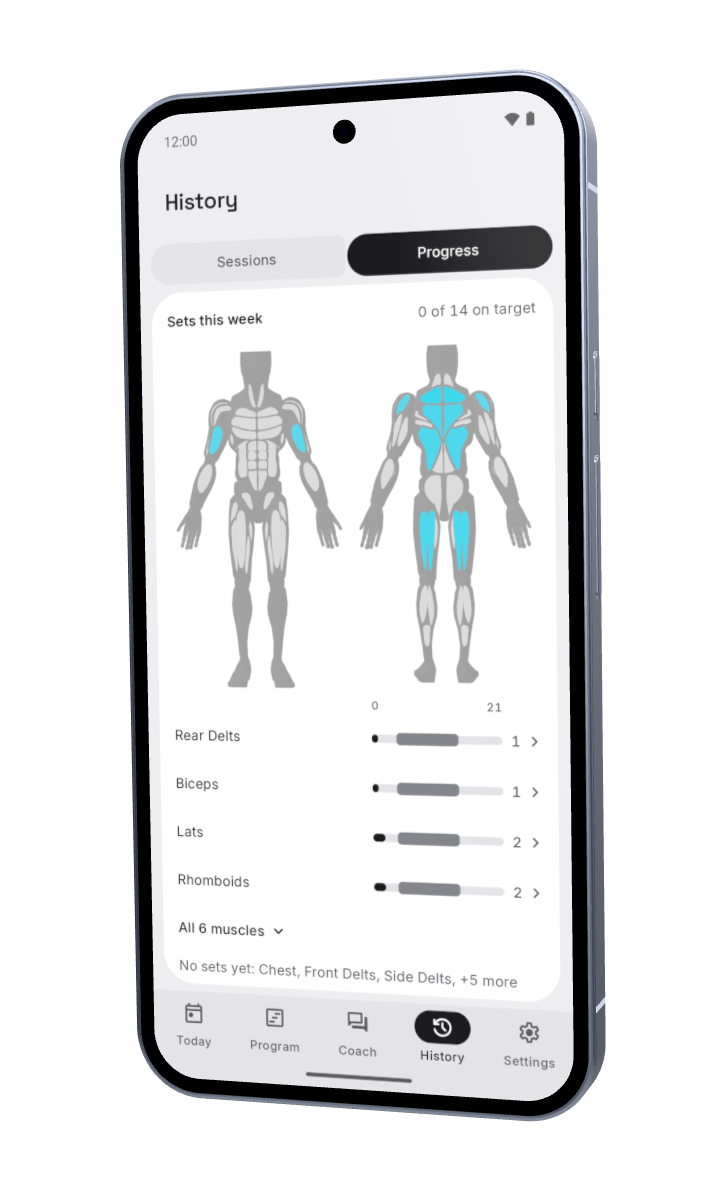
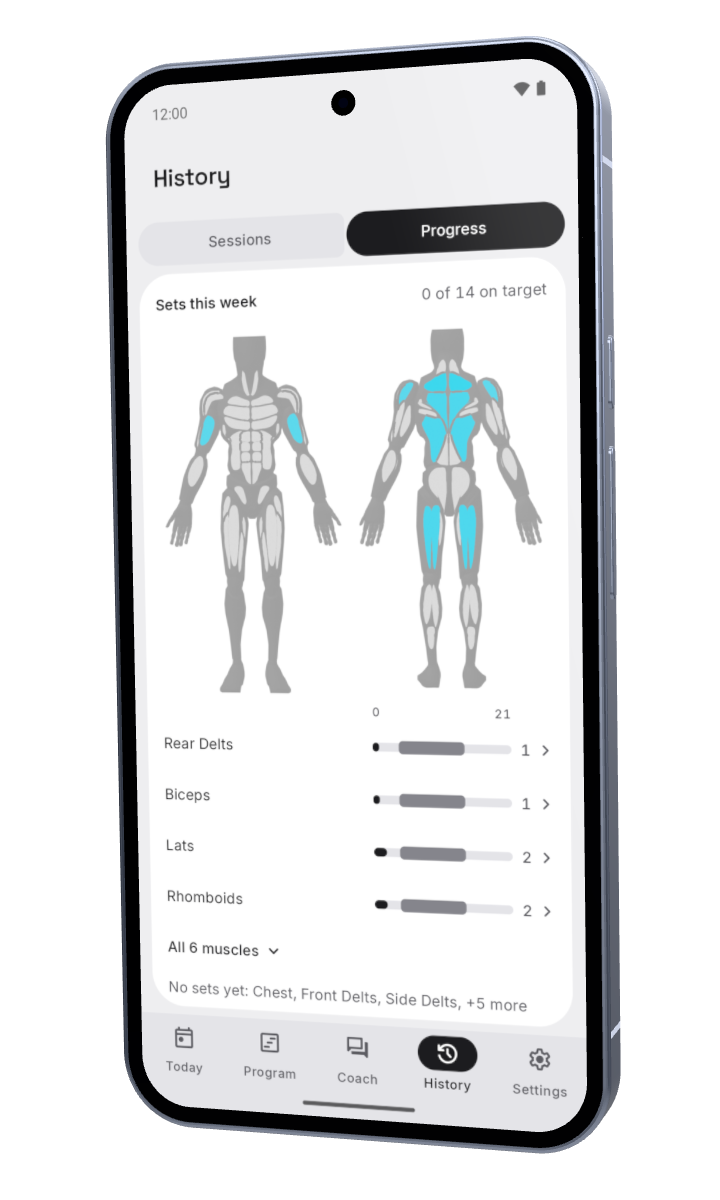
feat: keep the crossfade, add a technique section and a swing (#571)
Owner's pick: the crossfade. The full turn and the ?transition= switch are
gone. A new section shows the exercise sheet with the mannequin, and a section
can now put several screens on the phone in turn. When a block hands over to
the next the phone swings a little the way the page is going and draws back
while the screens crossfade.

Changed region(s): [[0.1222, 0.0308, 0.8861, 0.9867]]

diff --git a/src/phone/stage.js b/src/phone/stage.js
@@ -7,32 +7,20 @@ import { story } from "./story.js";
 const ease = (t) => t * t * (3 - 2 * t);
 const lerp = (from, to, t) => from + (to - from) * t;
 
-// How a new screen arrives, by `?transition=`. `lean` moves the resting pose at `t`, 0 to 1
-// through the change, where `towards` is 1 scrolling down and -1 scrolling up and `drift` is the
-// story's. `blend` is how much of the new screen shows at `t`.
-const TRANSITIONS = {
-  // The screens crossfade, and the phone leans a little with the scroll.
-  fade: {
-    duration: 350,
-    lean: ({ yaw, pitch, roll }, { drift }) => ({ yaw: yaw + drift * 0.16, pitch: pitch - drift * 0.04, roll }),
-    blend: (t) => ease(t),
-  },
-  // The phone turns once all the way round, and the new screen is on when its front comes back.
-  turn: {
-    duration: 900,
-    lean: (pose, { t, towards }) => ({ ...pose, yaw: pose.yaw + towards * 2 * Math.PI * ease(t) }),
-    blend: (t) => (t < 0.5 ? 0 : 1),
-  },
-};
+// A new screen arrives over this many milliseconds: the phone swings a little the way the page
+// is going and draws back, the screens crossfade while it is turned, and it settles again.
+const CHANGE = 700;
+const SWING = { yaw: 0.42, size: 0.05 };
+// How far the phone leans with the story's drift, in radians.
+const LEAN = { yaw: 0.16, pitch: -0.04 };
 
 /** Starts the phone in `stage`, an element holding a canvas and the screens' addresses. */
-export function startStage(stage, { transition: named } = {}) {
+export function startStage(stage) {
   const canvas = stage.querySelector("canvas");
   const screens = JSON.parse(stage.dataset.screens);
   const hero = document.querySelector(".home .hero");
   const sections = [...document.querySelectorAll(".home [data-screen]")];
   const root = document.documentElement;
-  const transition = TRANSITIONS[named] ?? TRANSITIONS.fade;
   const phone = createPhone(canvas, { pixelRatio: Math.min(window.devicePixelRatio, 2) });
 
   // Screens by "screen:theme", once loaded.
@@ -56,9 +44,9 @@ export function startStage(stage, { transition: named } = {}) {
 
   let shown = null;
   let change = null;
+  let queued = false;
   let lastScroll = window.scrollY;
   let towards = 1;
-  let queued = false;
   let sized = false;
 
   function redraw() {
@@ -72,18 +60,17 @@ export function startStage(stage, { transition: named } = {}) {
     if (!sized || root.dataset.home !== "live") return;
     if (window.scrollY !== lastScroll) towards = window.scrollY > lastScroll ? 1 : -1;
     lastScroll = window.scrollY;
-
     const { turn, screen, drift } = story({
       scrollY: window.scrollY,
       viewport: window.innerHeight,
       turnOver: hero.offsetHeight * 0.5,
       sections: sections.map((section) => {
         const { top, bottom } = section.getBoundingClientRect();
-        return { screen: section.dataset.screen, top: top + window.scrollY, bottom: bottom + window.scrollY };
+        return { screens: section.dataset.screen.split(" "), top: top + window.scrollY, bottom: bottom + window.scrollY };
       }),
     });
 
-    for (const section of sections) section.toggleAttribute("data-active", section.dataset.screen === screen);
+    for (const section of sections) section.toggleAttribute("data-active", section.dataset.screen.split(" ").includes(screen));
     phone.setFinish(theme());
     const wanted = keyOf(screen);
     ask(wanted);
@@ -95,20 +82,25 @@ export function startStage(stage, { transition: named } = {}) {
     }
     let t = 0;
     if (change) {
-      t = Math.min(1, (now - change.start) / transition.duration);
-      phone.setScreen(loaded.get(change.from), loaded.get(change.to), transition.blend(t));
-      if (transition.blend(t) >= 0.5) shown = change.to;
+      t = Math.min(1, (now - change.start) / CHANGE);
+      // The screens change through the middle half of the swing.
+      const blend = ease(Math.min(1, Math.max(0, (t - 0.25) * 2)));
+      phone.setScreen(loaded.get(change.from), loaded.get(change.to), blend);
+      if (t >= 0.5) shown = change.to;
     } else if (shown) {
       phone.setScreen(loaded.get(shown));
     }
 
+    // The phone leans a little with the scroll, once its front has come round.
     const facing = ease(turn);
-    const resting = {
-      yaw: lerp(POSES.back.yaw, POSES.front.yaw, facing),
-      pitch: lerp(POSES.back.pitch, POSES.front.pitch, facing),
+    const lean = drift * facing;
+    const swing = change ? Math.sin(Math.PI * ease(t)) * change.towards : 0;
+    phone.setPose({
+      size: 1 - Math.abs(swing) * SWING.size,
+      yaw: lerp(POSES.back.yaw, POSES.front.yaw, facing) + lean * LEAN.yaw + swing * SWING.yaw,
+      pitch: lerp(POSES.back.pitch, POSES.front.pitch, facing) + lean * LEAN.pitch,
       roll: lerp(POSES.back.roll, POSES.front.roll, facing),
-    };
-    phone.setPose(transition.lean(resting, { t, towards: change?.towards ?? 1, drift: drift * facing }));
+    });
     phone.render();
 
     // What the canvas shows, for a reader who can't see it and for the tests.

diff --git a/src/phone/story.js b/src/phone/story.js
@@ -6,7 +6,8 @@ const clamp = (value, low, high) => Math.min(high, Math.max(low, value));
 /**
  * `turn` runs from 0 (the back faces the reader) to 1 (the front does) over the first `turnOver`
  * pixels of scroll. `screen` is that of the feature section lying across a line a third of the
- * way down the view, where its words have come up to be read, or Today above the first. `drift`
+ * way down the view, where its words have come up to be read, or Today above the first. A section
+ * with several `screens` shows them in turn, an equal share of its height each. `drift`
  * sways once as that section crosses the line: to -1, level at the section's middle, to 1 and
  * level again, so it is the same on both sides of every change of section.
  * `sections` are in page order, their `top` and `bottom` measured from the top of the page.
@@ -17,5 +18,7 @@ export function story({ scrollY, viewport, turnOver, sections }) {
   const section = sections.findLast(({ top }) => top <= line);
   if (!section) return { turn, screen: "today", drift: 0 };
   const through = clamp((line - section.top) / (section.bottom - section.top), 0, 1);
-  return { turn, screen: section.screen, drift: -Math.sin(2 * Math.PI * through) };
+  const { screens } = section;
+  const screen = screens[Math.min(screens.length - 1, Math.floor(through * screens.length))];
+  return { turn, screen, drift: -Math.sin(2 * Math.PI * through) };
 }

diff --git a/src/phone/phone.js b/src/phone/phone.js
@@ -359,8 +359,10 @@ export function createPhone(canvas, { fill = 0.74, pixelRatio = 1 } = {}) {
     },
     /** The body's colour: "dark" or "light", after the page's theme. */
     setFinish,
-    setPose({ yaw, pitch, roll }) {
+    /** How the phone stands. `size` is 1 at rest; less sets it back from the reader. */
+    setPose({ yaw, pitch, roll, size = 1 }) {
       phone.rotation.set(pitch, yaw, roll);
+      phone.scale.setScalar(size);
     },
     /** Shows `from`, or its blend with `to`: 0 is all `from`, 1 all `to`. */
     setScreen(from, to = from, blend = 0) {

diff --git a/README.md b/README.md
@@ -47,7 +47,7 @@ Write for users, in plain English, from the app as it is. A new page goes in the
 
 ### The home page
 
-`src/components/Home.astro` is the top of the home page: the pitch, then the app's four jobs, beside
+`src/components/Home.astro` is the top of the home page: the pitch, then what the app does, section by section, beside
 one phone. `index.mdx` holds the pitch's words and buttons, and everything below the phone.
 
 On a wide screen the phone is a 3D model drawn with three.js (`src/phone/`): it turns from its back
@@ -63,10 +63,6 @@ A narrow screen, a visitor who asked for less motion and a browser without WebGL
 same phone under each text instead, and never load three.js. The stills are in `src/assets/phone/`,
 drawn from the model by `npm run stills` (it needs Chrome, as the tests do). Run it after changing
 the model or a screenshot the home page shows, and commit what it draws.
-
-While the owner picks how a new screen arrives, the page takes `?transition=fade` (the screens
-crossfade and the phone leans with the scroll; the default) or `?transition=turn` (the phone turns
-once all the way round, and its front comes back with the new screen).
 
 ### The file format pages
 
